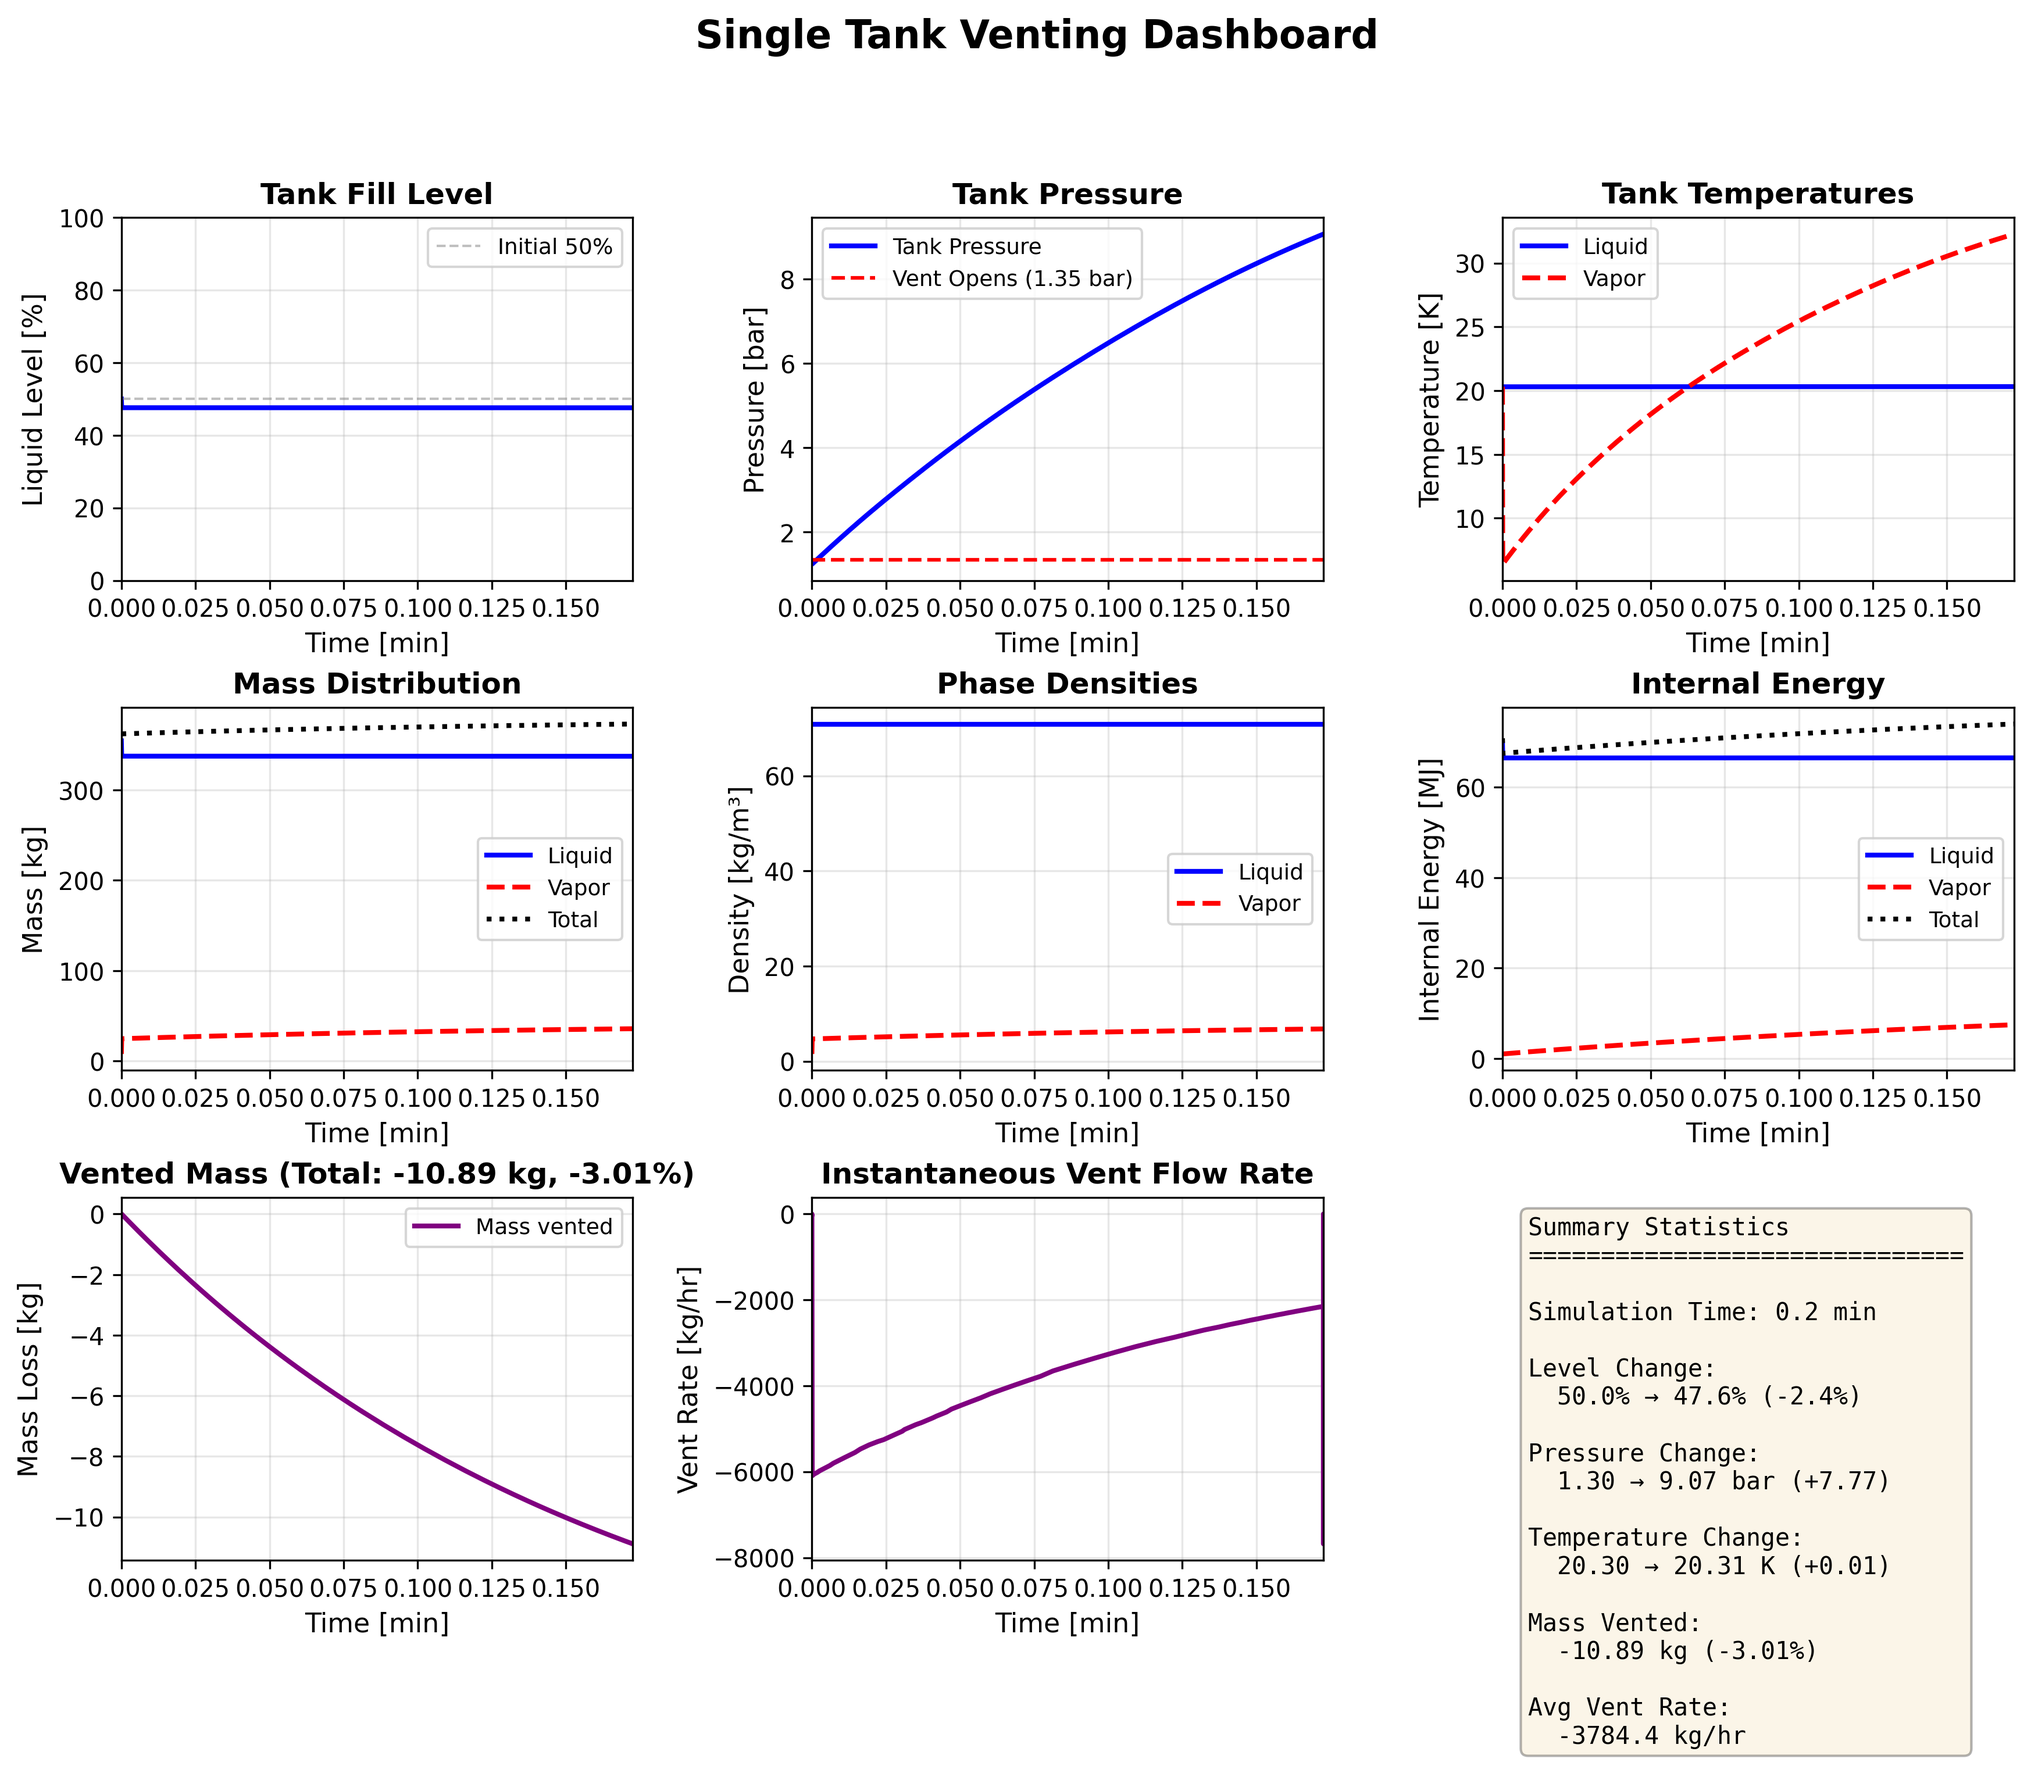
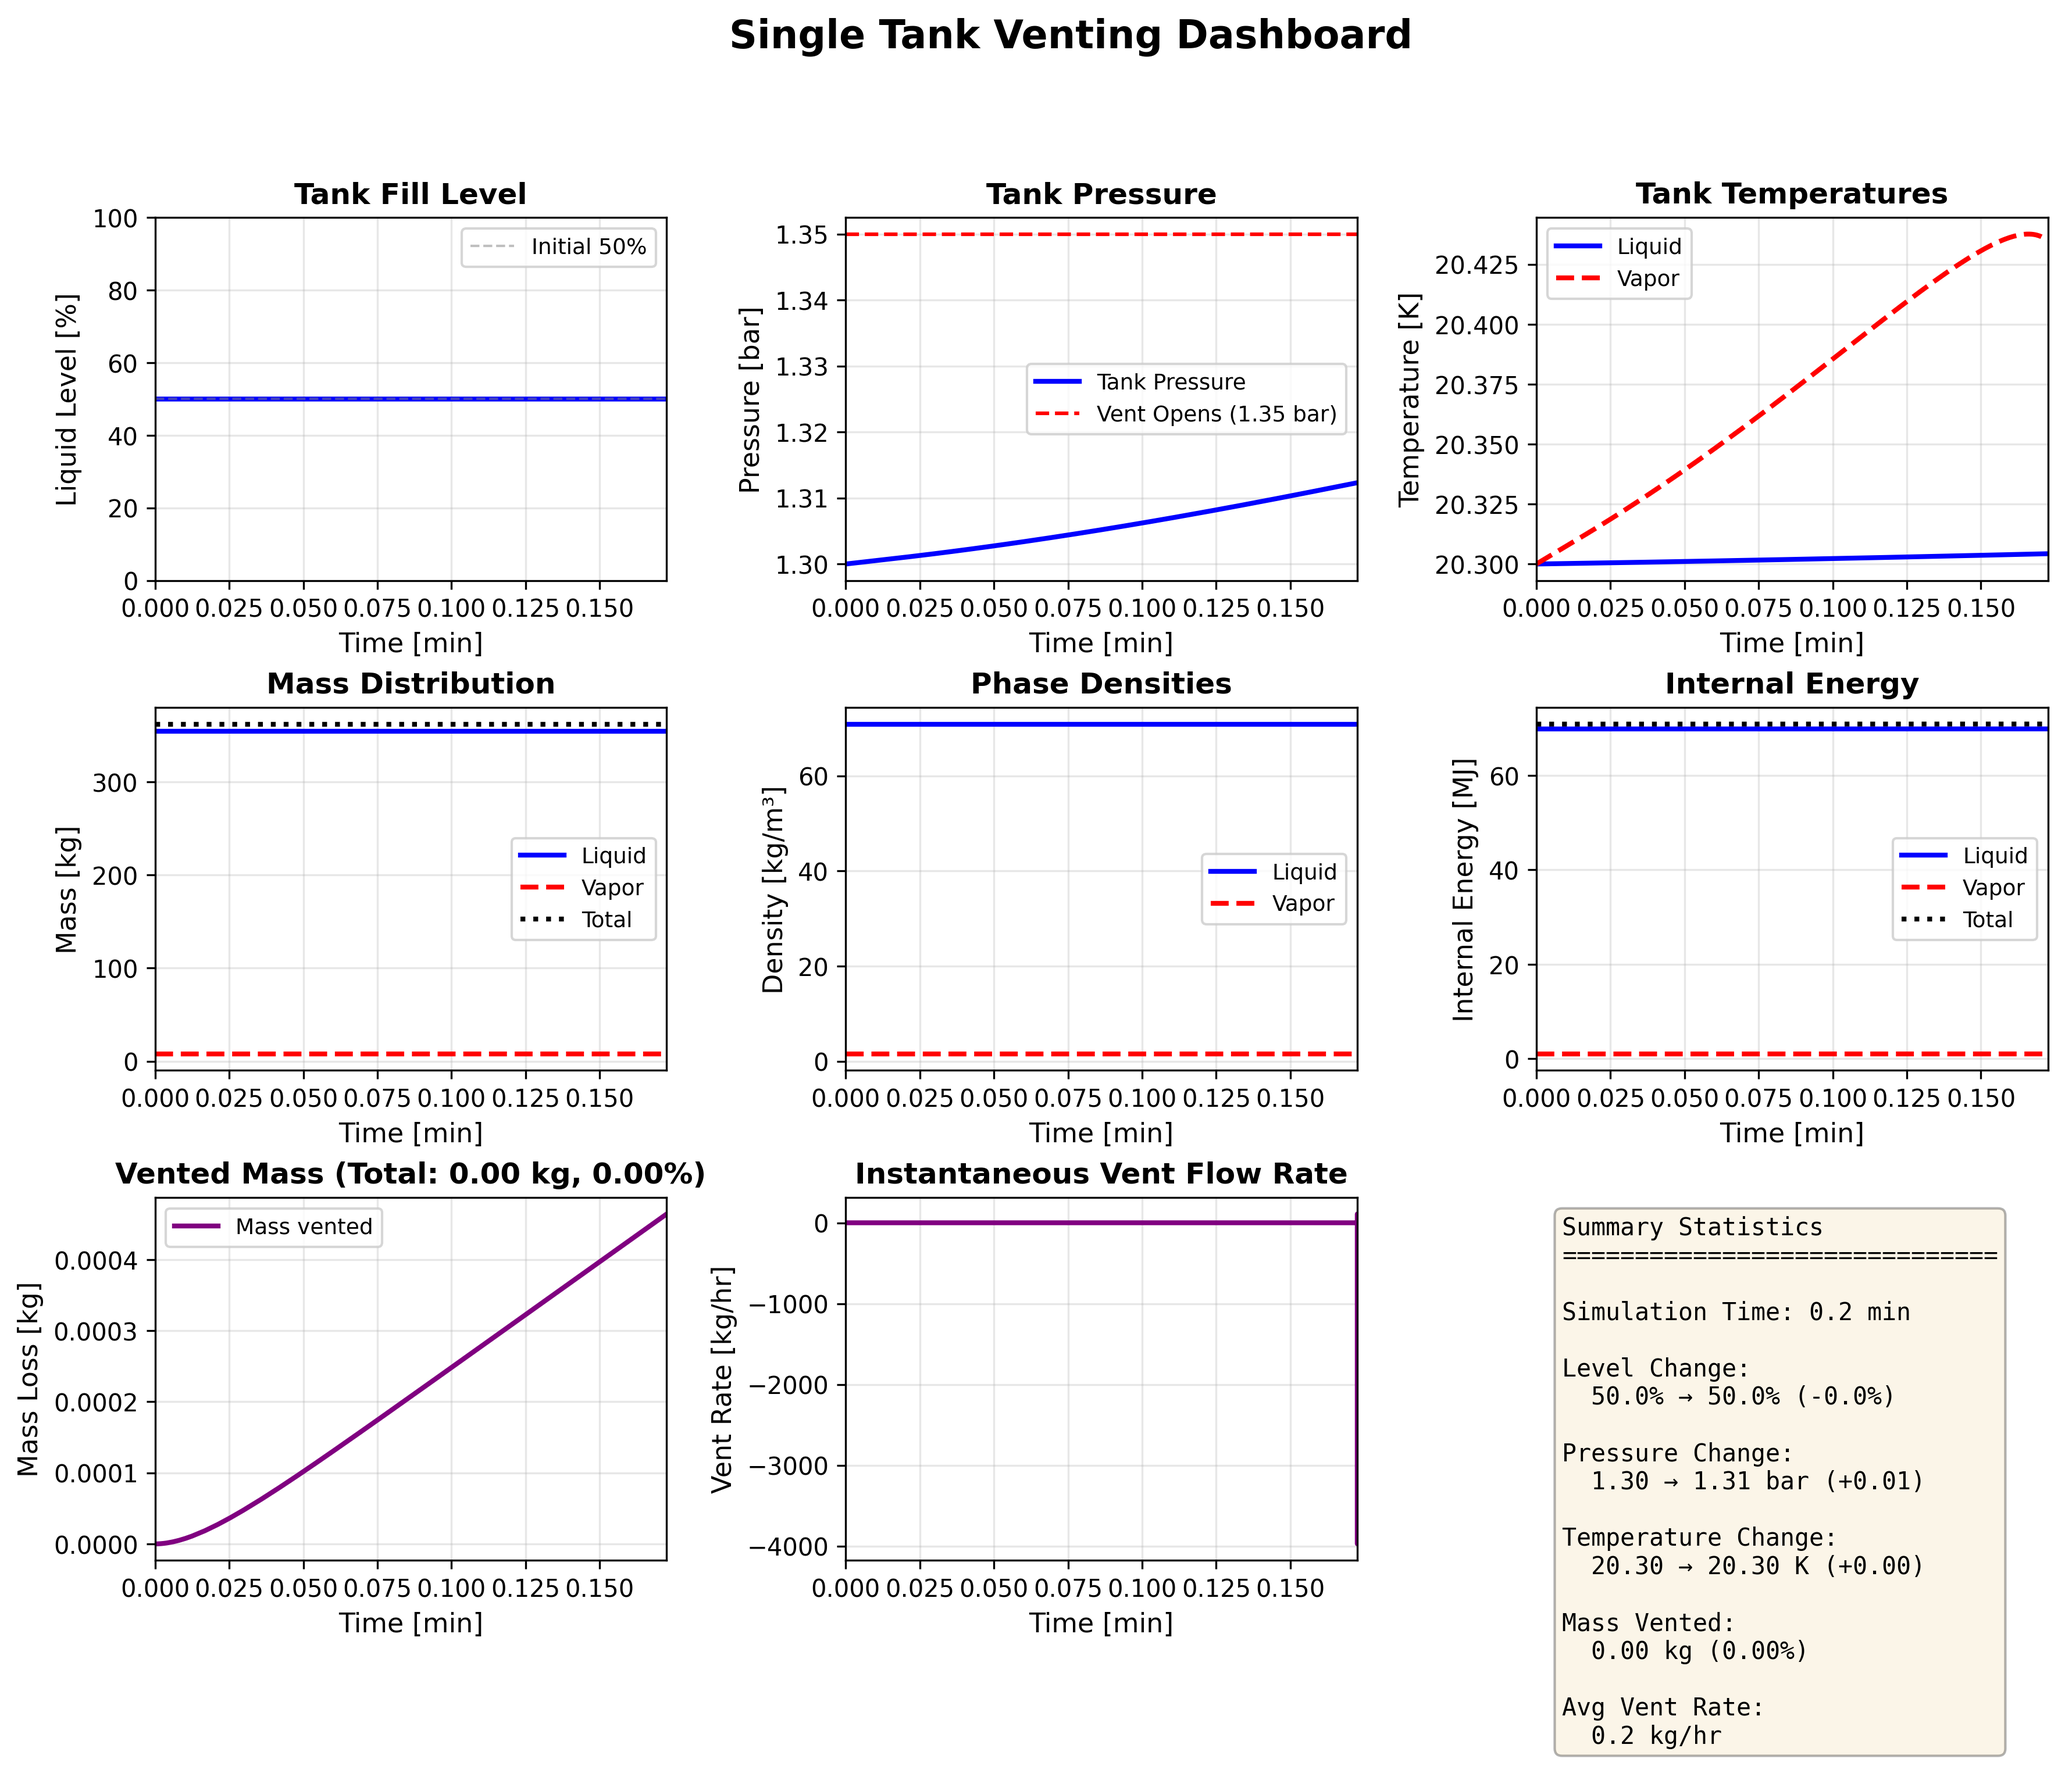
Improve single-tank venting scenario (pump mode, higher heat leak)

diff --git a/lh2sim/parameters/parameters.py b/lh2sim/parameters/parameters.py
@@ -446,8 +446,8 @@ def create_single_tank_venting_scenario() -> ScenarioConfig:
         initial_fill_fraction=0.5,  # 50% full as specified
         max_working_pressure=5.0 * bar_to_pa,  # Conservative limit
         vent_area=0.001,  # m² (moderate vent size)
-        heat_leak_liquid=80.0,  # W (environmental heat leak)
-        heat_leak_vapor=40.0,  # W
+        heat_leak_liquid=1000.0,  # W (higher heat leak for visible effect in short time)
+        heat_leak_vapor=500.0,  # W
     )
     
     # Dummy receiver tank (not used, but required by ScenarioConfig structure)
@@ -471,18 +471,22 @@ def create_single_tank_venting_scenario() -> ScenarioConfig:
     # Physics parameters (default para-hydrogen)
     physics = PhysicsParameters()
     
-    # Transfer parameters - minimal values since we're focusing on venting
-    # Set up as pressure-driven but with minimal transfer (main interest is venting)
+    # Transfer parameters - use pump mode with minimal flow to avoid vaporizer dynamics
+    # In pump mode, there's no vaporizer adding vapor to the supply tank
+    rho_liquid = physics.rho_liquid
     transfer = TransferParameters(
-        mode="pressure_driven",
-        transfer_valve_area=0.000001,  # Very small (minimal transfer to dummy)
-        vaporizer_area=0.000001,  # Very small
+        mode="pump_driven",  # Use pump mode to avoid vaporizer
+        transfer_valve_area=0.0001,  # Not used in pump mode
+        pump_flow_rate=1e-6,  # Minimal transfer - focus on venting
+        pump_flow_slow=rho_liquid * 1e-6,  # Minimal
+        pump_flow_fast=rho_liquid * 1e-6,  # Minimal
+        pump_flow_topping=rho_liquid * 1e-6,  # Minimal
         pipe_length=1.0,
         pipe_diameter=0.01,
-        # Adjust thresholds so vent is active
-        ET_vent_open_threshold=8.0 * bar_to_pa,  # Very high threshold (won't open)
+        # Adjust thresholds so vent is active on supply tank
+        ET_vent_open_threshold=8.0 * bar_to_pa,  # Very high (dummy tank won't vent)
         ET_vent_close_threshold=7.5 * bar_to_pa,
-        ST_vent_open_threshold=1.35 * bar_to_pa,  # Will open when pressure rises slightly
+        ST_vent_open_threshold=1.35 * bar_to_pa,  # Will open when pressure rises
         ST_vent_close_threshold=1.25 * bar_to_pa,
     )
     
@@ -493,7 +497,7 @@ def create_single_tank_venting_scenario() -> ScenarioConfig:
         receiver_tank=dummy_tank,
         physics=physics,
         transfer=transfer,
-        t_final=1800.0,  # 30 minutes
+        t_final=600.0,  # 10 minutes (reduced for stability)
         property_backend="CoolProp",
     )
 

diff --git a/examples/simple_venting.py b/examples/simple_venting.py
@@ -82,12 +82,12 @@ def main():
     
     print_separator("RUNNING SIMULATION")
     
-    print("\nSimulating tank venting for 30 minutes...")
+    print("\nSimulating tank venting for 10 minutes...")
     print("(This may take a moment to compute energy balance...)")
     
     # Run simulation with smaller max_step for stability
     simulator = Simulator(config)
-    result = simulator.run(t_end=1800, max_step=2.0)  # 30 min, 2s max step for stability
+    result = simulator.run(t_end=600, max_step=2.0)  # 10 min, 2s max step for stability
     
     print(f"\nSimulation completed!")
     print(f"  Status: {result.message}")
